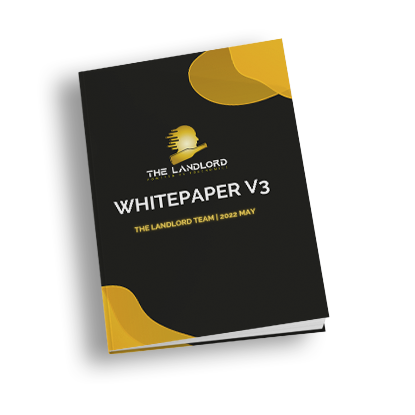
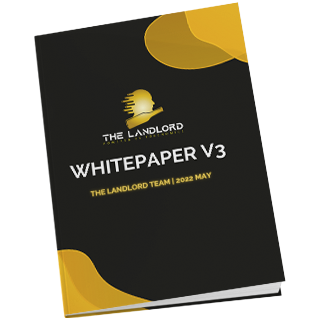
fix whitepaper image

diff --git a/pages/whitepaper.jsx b/pages/whitepaper.jsx
@@ -1,20 +1,20 @@
+/* eslint-disable @next/next/no-img-element */
 import Link from 'next/link';
-import Image from 'next/image';
 
 const whitepaper = () => {
 	return (
 		<>
 			<section className="page page-whitepaper container">
-				<div className="row align-items-center my-auto">
-					<div className="col-md-6">
+				<div className="row align-items-center my-auto text-center text-md-start">
+					<div className="col-md-6 mb-5 mb-md-0">
 						<h1 className="page-whitepaper-title">Whitepaper</h1>
 						<div className="page-whitepaper-desc">Download the latest version of our whitepaper.</div>
 						<Link href="/">
 							<a className="btn btn-brand">Download</a>
 						</Link>
 					</div>
-					<div className="col-md-6">
-						<Image width="415" height="415" src="/files/img/certs/whitepaper.png" alt="Landlord Whitepaper" />
+					<div className="col-md-6 text-center">
+						<img className="page-whitepaper-img" width="320" height="320" src="/files/img/certs/whitepaper.png" alt="Landlord Whitepaper" />
 					</div>
 				</div>
 			</section>

diff --git a/assets/scss/pages/_whitepaper.scss b/assets/scss/pages/_whitepaper.scss
@@ -13,4 +13,8 @@
 		line-height: 1.7;
 		margin-bottom: 2.5rem;
 	}
+
+	&-img {
+		filter: drop-shadow(15px 9px 24px rgba(0, 0, 0, 0.5));
+	}
 }

diff --git a/assets/scss/helpers/_variables.scss b/assets/scss/helpers/_variables.scss
@@ -10,7 +10,7 @@ $light: #f3f3f3;
 $prefix: '';
 
 // body
-$body-bg: #000;
+$body-bg: #09090a;
 $body-color: $light;
 
 // links
